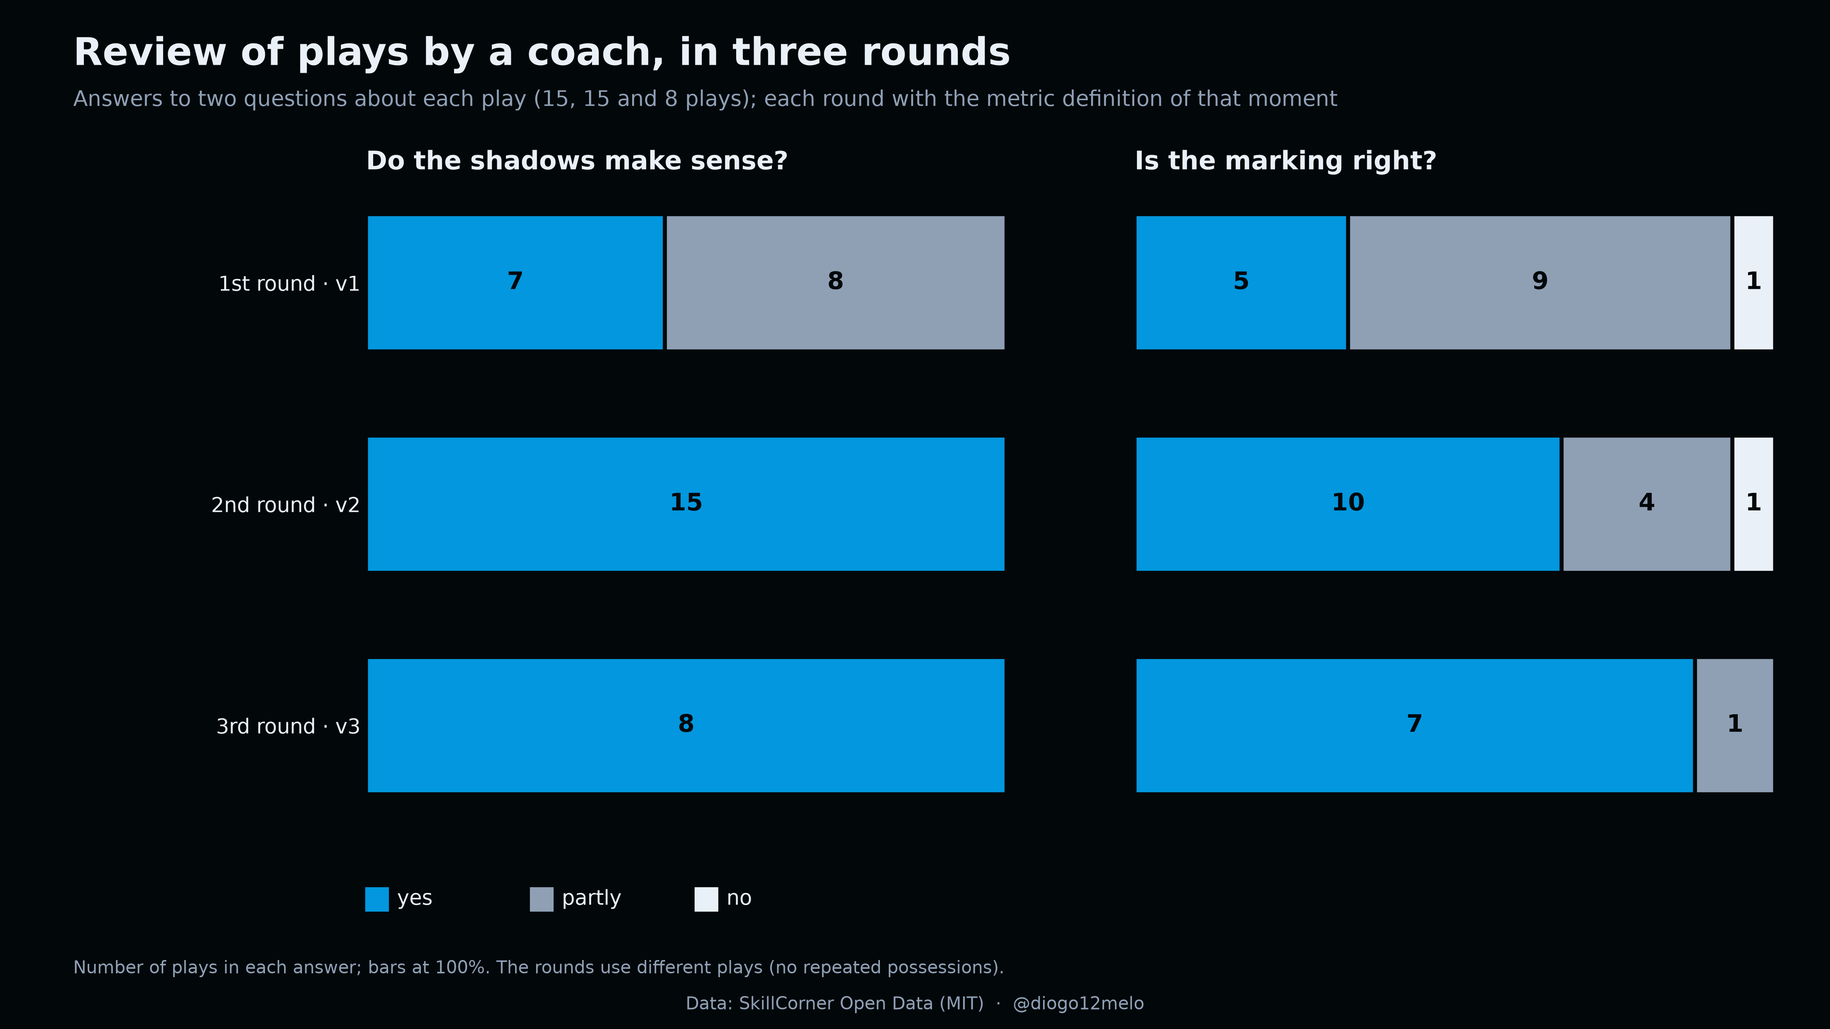
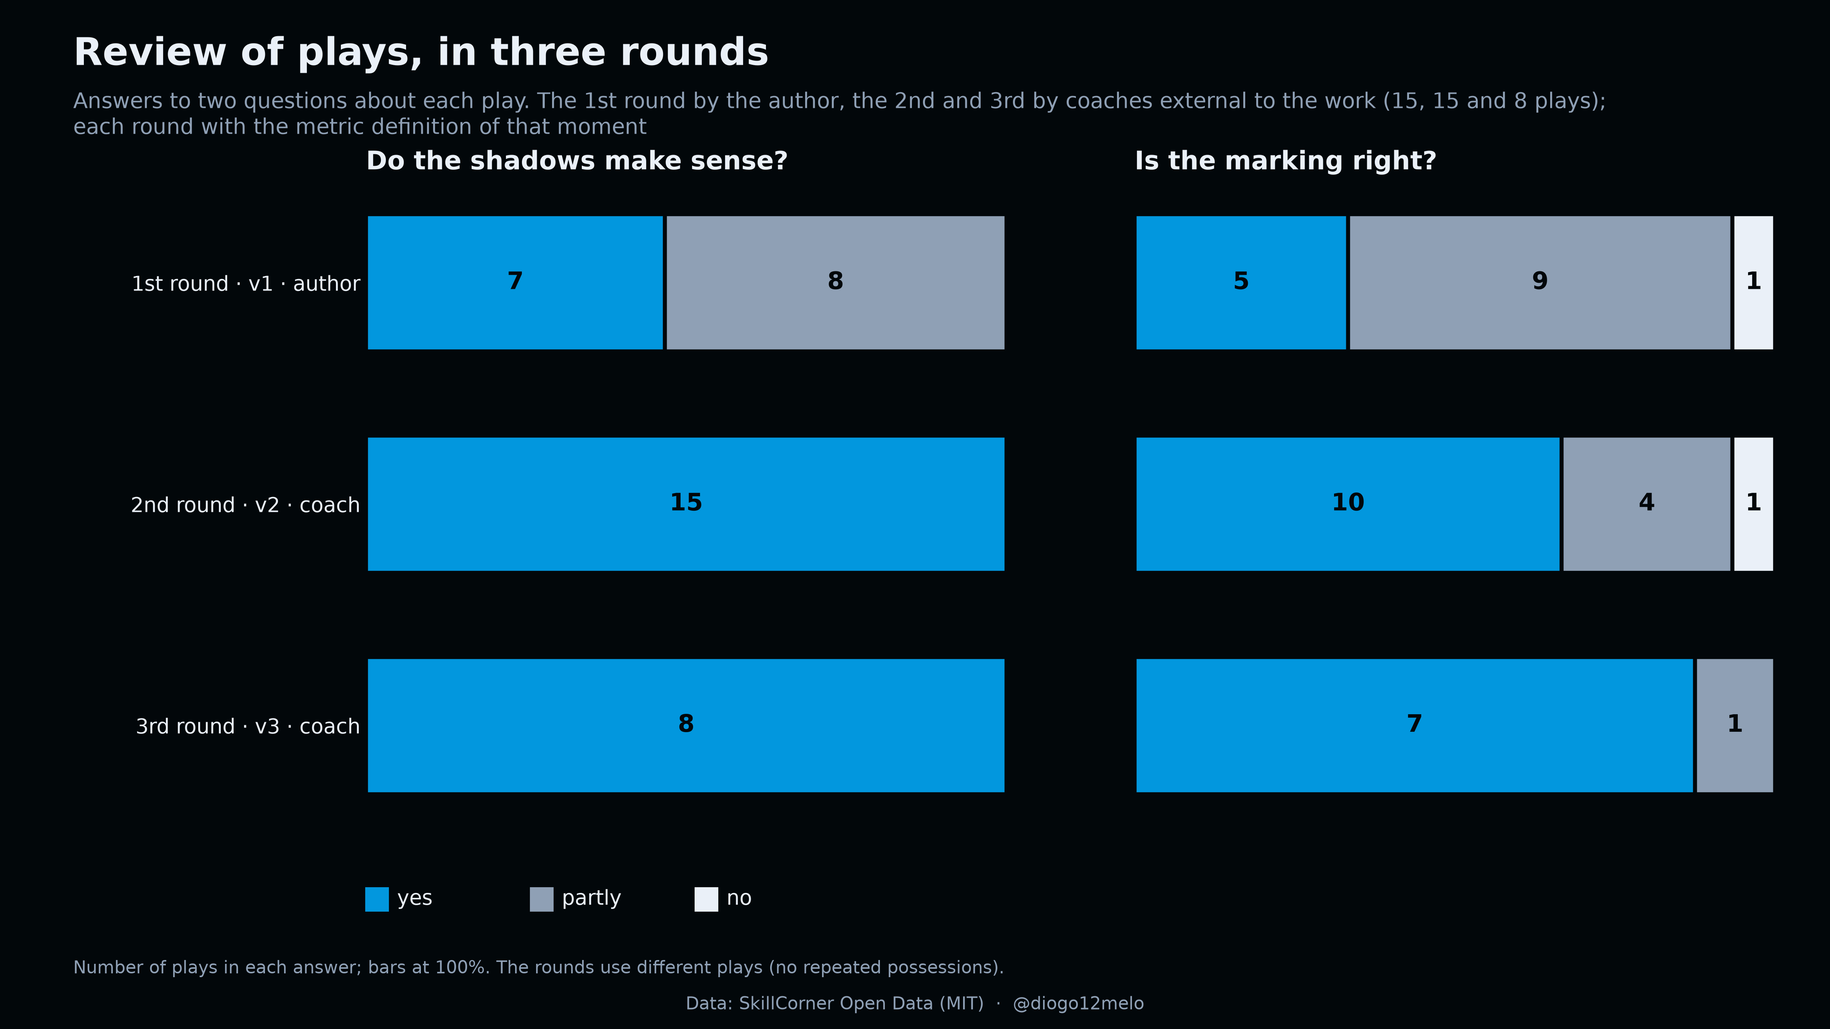
revisão de lances: quem fez cada ronda, Figura 5 reprodutível a partir das contagens

diff --git a/projects/cover_shadow/figuras_agregados.py b/projects/cover_shadow/figuras_agregados.py
@@ -83,12 +83,12 @@ TEXTOS = {
                     "Terço = onde a posse começou (etiqueta SkillCorner).\nÍndice de fecho da linha, não probabilidade calibrada. "
                     "Fora da figura: {sem_fase} momentos sem fase atribuída."),
         # revisões
-        "rv_titulo": "Revisão de lances por um treinador, em três rondas",
-        "rv_sub": ("Respostas a duas perguntas sobre cada lance (15, 15 e 8 lances); cada ronda com a definição "
-                   "da métrica desse momento"),
+        "rv_titulo": "Revisão de lances, em três rondas",
+        "rv_sub": ("Respostas a duas perguntas sobre cada lance. A 1.ª ronda pelo autor, a 2.ª e a 3.ª por treinadores externos ao trabalho "
+                   "(15, 15 e 8 lances);\ncada ronda com a definição da métrica desse momento"),
         "rv_sombras": "As sombras fazem sentido?",
         "rv_marcacao": "A marcação está certa?",
-        "rv_rondas": ("1.ª ronda · v1", "2.ª ronda · v2", "3.ª ronda · v3"),
+        "rv_rondas": ("1.ª ronda · v1 · autor", "2.ª ronda · v2 · treinador", "3.ª ronda · v3 · treinador"),
         "rv_respostas": ("sim", "em parte", "não"),
         "rv_nota": "Número de lances em cada resposta; barras a 100 %. As rondas usam lances diferentes (sem repetir posses).",
         # C3
@@ -151,12 +151,12 @@ TEXTOS = {
         "ft_nota": ("A moment = a frame with at least one evaluated lane. Faded bar: fewer than {minimo} moments. "
                     "Third = where the possession started (SkillCorner label).\nLane-closure index, not a calibrated probability. "
                     "Outside the figure: {sem_fase} moments with no phase assigned."),
-        "rv_titulo": "Review of plays by a coach, in three rounds",
-        "rv_sub": ("Answers to two questions about each play (15, 15 and 8 plays); each round with the metric definition "
-                   "of that moment"),
+        "rv_titulo": "Review of plays, in three rounds",
+        "rv_sub": ("Answers to two questions about each play. The 1st round by the author, the 2nd and 3rd by coaches external to the work "
+                   "(15, 15 and 8 plays);\neach round with the metric definition of that moment"),
         "rv_sombras": "Do the shadows make sense?",
         "rv_marcacao": "Is the marking right?",
-        "rv_rondas": ("1st round · v1", "2nd round · v2", "3rd round · v3"),
+        "rv_rondas": ("1st round · v1 · author", "2nd round · v2 · coach", "3rd round · v3 · coach"),
         "rv_respostas": ("yes", "partly", "no"),
         "rv_nota": "Number of plays in each answer; bars at 100%. The rounds use different plays (no repeated possessions).",
         "c3_titulo": "Shadow on the lane followed vs the alternatives",
@@ -365,15 +365,69 @@ def figura_fase_e_terco(JG: dict, brand: Brand, destino: Path, idioma: str = "pt
 
 RONDAS = [("1.ª ronda · v1", "revisao_lances_preenchida.xlsx"), ("2.ª ronda · v2", "revisao_lances_preenchidas_v2.xlsx"),
           ("3.ª ronda · v3", "revisao_lances_preenchida_v3.xlsx")]
+REVISORES = ("autor", "treinador externo", "treinador externo")  # quem fez cada ronda; em nenhuma o revisor sabia o grupo do lance
 RESPOSTAS = ("sim", "em parte", "não")
+PERGUNTAS = ("sombras", "marcacao")
+PASTA_REVISOES = PROJECTS / "cover_shadow"
+CSV_REVISOES = PASTA_REVISOES / "referencias" / "revisao_contagens.csv"
+COLUNAS_CSV = ["ronda", "versao", "revisor", "lances", "pergunta", "sim", "em_parte", "nao"]
 
 
-def figura_revisoes(brand: Brand, destino: Path, idioma: str = "pt") -> dict:
+def contagens_das_folhas(pasta: Path = PASTA_REVISOES) -> dict | None:
+    """{ronda: {pergunta: {sim, em parte, não, n}}} das folhas preenchidas; `None` se alguma faltar (as folhas têm os
+    comentários dos revisores e não são publicadas)."""
+    if not all((pasta / ficheiro).exists() for _, ficheiro in RONDAS):
+        return None
+    saida = {}
+    for nome, ficheiro in RONDAS:
+        folha = ler_folha_xlsx(pasta / ficheiro)
+        saida[nome] = {}
+        for coluna in PERGUNTAS:
+            contagem = {r: int((folha[coluna] == r).sum()) for r in RESPOSTAS}
+            assert sum(contagem.values()) == len(folha), (nome, coluna, contagem)
+            saida[nome][coluna] = {**contagem, "n": len(folha)}
+    return saida
+
+
+def contagens_do_csv(csv: Path = CSV_REVISOES) -> dict | None:
+    """As mesmas contagens, lidas de `referencias/revisao_contagens.csv` (só contagens: sem lances, comentários nem nomes)."""
+    if not csv.exists():
+        return None
+    saida = {}
+    for r in pd.read_csv(csv).itertuples():
+        nome = RONDAS[int(r.ronda) - 1][0]
+        saida.setdefault(nome, {})[r.pergunta] = {"sim": int(r.sim), "em parte": int(r.em_parte), "não": int(r.nao), "n": int(r.lances)}
+    return saida
+
+
+def contagens_revisoes(pasta: Path = PASTA_REVISOES, csv: Path | None = None) -> dict:
+    """Contagens das três rondas: das folhas se existirem, senão do CSV; havendo as duas, têm de coincidir."""
+    das_folhas, do_csv = contagens_das_folhas(pasta), contagens_do_csv(CSV_REVISOES if csv is None else csv)
+    if das_folhas is not None and do_csv is not None:
+        assert das_folhas == do_csv, "revisao_contagens.csv não coincide com as folhas preenchidas"
+    contagens = das_folhas if das_folhas is not None else do_csv
+    if contagens is None:
+        raise FileNotFoundError(f"sem folhas preenchidas em {pasta} nem {CSV_REVISOES}")
+    return contagens
+
+
+def escrever_csv_revisoes(destino: Path = CSV_REVISOES, pasta: Path = PASTA_REVISOES) -> None:
+    """Gera o CSV de contagens a partir das folhas preenchidas (corre-se onde elas existem, i.e. no footy-lab)."""
+    contagens = contagens_das_folhas(pasta)
+    assert contagens is not None, "faltam folhas preenchidas"
+    linhas = [[i, f"v{i}", REVISORES[i - 1], c["n"], pergunta, c["sim"], c["em parte"], c["não"]]
+              for i, (nome, _) in enumerate(RONDAS, start=1) for pergunta, c in contagens[nome].items()]
+    destino.parent.mkdir(parents=True, exist_ok=True)
+    pd.DataFrame(linhas, columns=COLUNAS_CSV).to_csv(destino, index=False, lineterminator="\n")
+
+
+def figura_revisoes(brand: Brand, destino: Path, idioma: str = "pt", contagens: dict | None = None) -> dict:
     cor = brand.colors
     T = lambda chave, **v: texto(idioma, chave, **v)
     cores = {"sim": cor["secondary"], "em parte": cor["text_muted"], "não": cor["text"]}
     tinta = {"sim": cor["background"], "em parte": cor["background"], "não": cor["background"]}
-    folhas = {nome: ler_folha_xlsx(PROJECTS / "cover_shadow" / ficheiro) for nome, ficheiro in RONDAS}
+    contagens = contagens_revisoes() if contagens is None else contagens
+    folhas = {nome: contagens[nome] for nome, _ in RONDAS}
     fig = nova_figura(brand, T("rv_titulo"), T("rv_sub"))
     eixos = [fig.add_axes((0.20, 0.20, 0.35, 0.62)), fig.add_axes((0.62, 0.20, 0.35, 0.62))]
     numeros = {}
@@ -383,9 +437,9 @@ def figura_revisoes(brand: Brand, destino: Path, idioma: str = "pt") -> dict:
         ax.spines["bottom"].set_visible(False)
         ax.set_xticks([])
         for i, (nome, folha) in enumerate(reversed(list(folhas.items()))):
-            n = len(folha)
+            n = folha[coluna]["n"]
             esquerda = 0.0
-            contagem = {r: int((folha[coluna] == r).sum()) for r in RESPOSTAS}
+            contagem = {r: folha[coluna][r] for r in RESPOSTAS}
             assert sum(contagem.values()) == n, (nome, coluna, contagem)
             numeros.setdefault(nome, {})[coluna] = {**contagem, "n": n}
             for r in RESPOSTAS:

diff --git a/projects/cover_shadow/tests/test_revisoes.py b/projects/cover_shadow/tests/test_revisoes.py
@@ -1,0 +1,73 @@
+"""Figura 5 (revisão de lances): contagens por ronda, legenda inglesa e geração só com o CSV de contagens."""
+
+import re
+import shutil
+
+import matplotlib
+
+matplotlib.use("Agg")  # sem janela: o backend por omissão (Tk) falha em terminais sem ecrã
+
+import figuras_agregados as ag
+import legendas_en
+import pytest
+
+from footy.viz.theme import apply_theme, load_brand
+
+# sim / em parte / não por ronda e pergunta
+ESPERADO = {
+    "1.ª ronda · v1": {"sombras": (7, 8, 0), "marcacao": (5, 9, 1)},
+    "2.ª ronda · v2": {"sombras": (15, 0, 0), "marcacao": (10, 4, 1)},
+    "3.ª ronda · v3": {"sombras": (8, 0, 0), "marcacao": (7, 1, 0)},
+}
+
+
+def trio(c: dict) -> tuple:
+    return (c["sim"], c["em parte"], c["não"])
+
+
+def test_csv_tem_so_contagens():
+    cabecalho = ag.CSV_REVISOES.read_text(encoding="utf-8").splitlines()[0]
+    assert cabecalho == "ronda,versao,revisor,lances,pergunta,sim,em_parte,nao"
+
+
+def test_contagens_do_csv():
+    contagens = ag.contagens_do_csv()
+    for ronda, perguntas in ESPERADO.items():
+        for pergunta, valores in perguntas.items():
+            assert trio(contagens[ronda][pergunta]) == valores
+
+
+def test_folhas_e_csv_coincidem():
+    if ag.contagens_das_folhas() is None:
+        pytest.skip("folhas preenchidas não publicadas")
+    assert ag.contagens_das_folhas() == ag.contagens_do_csv()
+
+
+def test_legenda_en_tem_as_contagens_da_ronda_certa():
+    """A legenda EN emparelhava as rondas pela ordem do dicionário (3.ª, 2.ª, 1.ª): as contagens ficavam com a ronda trocada."""
+    numeros = {}  # a ordem de inserção das figuras: da 3.ª à 1.ª
+    for nome in reversed(list(ESPERADO)):
+        numeros[nome] = ag.contagens_do_csv()[nome]
+    texto = legendas_en.linhas_revisoes(numeros)
+    for (nome, _), rotulo_en in zip(ag.RONDAS, ag.TEXTOS["en"]["rv_rondas"]):
+        trecho = next(t for t in texto.split("; ") if t.startswith(rotulo_en + ":"))
+        s, m = re.findall(r"(\d+)/(\d+)/(\d+)", trecho)
+        assert tuple(map(int, s)) == ESPERADO[nome]["sombras"]
+        assert tuple(map(int, m)) == ESPERADO[nome]["marcacao"]
+
+
+@pytest.mark.parametrize("idioma", ["pt", "en"])
+def test_figura_gera_se_so_com_o_csv(tmp_path, idioma):
+    sem_folhas = tmp_path / "sem_folhas"
+    sem_folhas.mkdir()
+    csv = tmp_path / "revisao_contagens.csv"
+    shutil.copy(ag.CSV_REVISOES, csv)
+    assert ag.contagens_das_folhas(sem_folhas) is None
+    contagens = ag.contagens_revisoes(pasta=sem_folhas, csv=csv)
+    brand = load_brand(variante="clara")
+    apply_theme(brand)
+    numeros = ag.figura_revisoes(brand, tmp_path / "f.png", idioma=idioma, contagens=contagens)
+    assert (tmp_path / "f.png").stat().st_size > 0
+    for ronda, perguntas in ESPERADO.items():
+        for pergunta, valores in perguntas.items():
+            assert trio(numeros[ronda][pergunta]) == valores

diff --git a/projects/cover_shadow/legendas_en.py b/projects/cover_shadow/legendas_en.py
@@ -17,6 +17,14 @@ CTX = idi.ROTULOS_CONTEXTO["en"]
 NOTA = fl.TEXTOS["en"]["nota_soma"]
 
 
+def linhas_revisoes(r: dict) -> str:
+    """Contagens sim/em parte/não por ronda. As chaves de `r` são os nomes PT das rondas (por ordem de inserção vêm da 3.ª à 1.ª),
+    por isso o rótulo inglês procura-se pelo nome e não pela posição."""
+    rondas = {nome: en for (nome, _), en in zip(ag.RONDAS, ag.TEXTOS["en"]["rv_rondas"])}
+    return "; ".join(f"{rondas[k]}: shadows {v['sombras']['sim']}/{v['sombras']['em parte']}/{v['sombras']['não']}, marking "
+                     f"{v['marcacao']['sim']}/{v['marcacao']['em parte']}/{v['marcacao']['não']}" for k, v in r.items())
+
+
 def legendas(n: dict) -> str:
     pt, pct, mil = idi.formatadores("en", menos=True)
     U = "risk"
@@ -69,13 +77,9 @@ def legendas(n: dict) -> str:
         L += [f"- {rot}: {txt}."]
     L += ["", f"{mil(ft['sem_fase'])} moments with no phase assigned are left out of the figure but count in the total.", "",
           "Numbers: `avaliacao_v31.pct_por_contexto` on the v3.1 base in risk; `outputs/cover_shadow/artigo_v31.json`, section `risco.fase_e_terco`.", ""]
-    r = n["revisoes"]
-    rondas = dict(zip(r, ag.TEXTOS["en"]["rv_rondas"]))
-    linhas = "; ".join(f"{rondas[k]}: shadows {v['sombras']['sim']}/{v['sombras']['em parte']}/{v['sombras']['não']}, marking "
-                       f"{v['marcacao']['sim']}/{v['marcacao']['em parte']}/{v['marcacao']['não']}" for k, v in r.items())
     L += ["### agregado_revisoes.png (Figure 5)", "",
-          f"Coach's answers (yes / partly / no) in the three review rounds: {linhas}.", "",
-          f"Numbers: filled-in sheets (`revisao_lances_preenchida*.xlsx`); `{NB}`, section 1 (1.1 to 1.4).", ""]
+          f"Answers (yes / partly / no) in the three review rounds: {linhas_revisoes(n['revisoes'])}.", "",
+          f"Numbers: filled-in sheets (`revisao_lances_preenchida*.xlsx`) or `referencias/revisao_contagens.csv`; `{NB}`, section 1 (1.1 to 1.4).", ""]
     v = n["versoes"]
     txt = "; ".join(f"{k.replace('v3_1', 'v3.1').replace('_', ' · ')}: {pct(x['pct_negada'])} denied, {pct(x['pct_excluidas'])} excluded" for k, x in v.items())
     L += ["### agregado_versoes.png (Figure 1)", "",

diff --git a/projects/cover_shadow/figuras_artigo.py b/projects/cover_shadow/figuras_artigo.py
@@ -142,8 +142,8 @@ def legendas(n: dict) -> str:
         linhas = "; ".join(f"{k}: sombras {v['sombras']['sim']}/{v['sombras']['em parte']}/{v['sombras']['não']}, marcação "
                            f"{v['marcacao']['sim']}/{v['marcacao']['em parte']}/{v['marcacao']['não']}" for k, v in r.items())
         L += ["### agregado_revisoes.png", "",
-              f"Respostas do treinador (sim / em parte / não) nas três rondas de revisão: {linhas}.", "",
-              f"Números: folhas preenchidas (`revisao_lances_preenchida*.xlsx`); `{NB}`, secção 1 (1.1 a 1.4).", ""]
+              f"Respostas (sim / em parte / não) nas três rondas de revisão: {linhas}.", "",
+              f"Números: folhas preenchidas (`revisao_lances_preenchida*.xlsx`) ou `referencias/revisao_contagens.csv`; `{NB}`, secção 1 (1.1 a 1.4).", ""]
     if "versoes" in n:
         v = n["versoes"]
         txt = "; ".join(f"{k.replace('v3_1', 'v3.1').replace('_', ' · ')}: {pt(x['pct_negada'])} % negada, {pt(x['pct_excluidas'])} % excluídas" for k, x in v.items())

diff --git a/projects/cover_shadow/avaliacao.py b/projects/cover_shadow/avaliacao.py
@@ -22,7 +22,7 @@ from scipy.stats import spearmanr
 
 from footy.paths import DATA_PROCESSED
 
-PASTA_AVALIACAO = DATA_PROCESSED / "cover_shadow" / "avaliacao"  # v1: antes da revisão do treinador (D24)
+PASTA_AVALIACAO = DATA_PROCESSED / "cover_shadow" / "avaliacao"  # v1: antes da 1.ª ronda de revisão (D24)
 PASTA_AVALIACAO_V2 = DATA_PROCESSED / "cover_shadow" / "avaliacao_v2"  # v2: com as decisões D25 a D30
 PASTA_AVALIACAO_V3 = DATA_PROCESSED / "cover_shadow" / "avaliacao_v3"  # v3: com D33 e D34
 PASTA_AVALIACAO_V31 = DATA_PROCESSED / "cover_shadow" / "avaliacao_v3_1"  # v3.1: v3 + linhas de até 35 m (D43)

diff --git a/projects/cover_shadow/revisao_v4.py b/projects/cover_shadow/revisao_v4.py
@@ -1,4 +1,4 @@
-"""Fase 8d · figuras, clips e folha da 4.ª ronda de revisão pelo treinador (C1 e C2), com a métrica v4.
+"""Fase 8d · figuras, clips e folha da 4.ª ronda de revisão (C1 e C2), com a métrica v4.
 
 Lances: os 8 da 3.ª ronda (W01–W08, para comparar) e os 3 momentos com a dissuasão (D) mais negativa (D01–D03), para ver se a
 sombra empurrou o portador para uma opção mais perigosa. Cada lance tem uma figura com o valor de cada defesa na v4 (interceção

diff --git a/projects/cover_shadow/revisao.py b/projects/cover_shadow/revisao.py
@@ -1,4 +1,4 @@
-"""Fase 5 · figuras, clips e folha de revisão para a revisão por um treinador (C1 e C2).
+"""Fase 5 · figuras, clips e folha de revisão para a revisão de lances (C1 e C2).
 
 Para cada lance escolhido gera uma figura completa (linhas de passe, quem marca, cones,
 probabilidades e ameaça negada por defesa) e um clip de ~3 s centrado no momento. A folha

diff --git a/projects/cover_shadow/DECISOES.md b/projects/cover_shadow/DECISOES.md
@@ -163,8 +163,8 @@ trazia (posição + velocidade × 0,7 s) e só depois corre em linha reta a 5 m/
   `maxspeed = 12`), velocidades acima de 12 m/s são tratadas como erro do tracking.
 - *Porquê:* com 0,7 s de reação, tratar o defesa como parado atrasava quem já corria para a linha.
 
-### D24 · Revisão por treinador, primeira ronda (28/10)
-15 lances revistos pelo Diogo (C1, C2): sombras 7 sim / 8 em parte / 0 não; marcação 5 sim /
+### D24 · Revisão de lances, primeira ronda, pelo autor (28/10)
+15 lances revistos pelo autor (C1, C2): sombras 7 sim / 8 em parte / 0 não; marcação 5 sim /
 9 em parte / 1 não. Os 5 lances com mais ameaça negada eram quase todos cruzamentos, onde a métrica
 faz menos sentido. As decisões D25–D30 resultam desta revisão (iteração CRISP-DM: volta à modelação).
 
@@ -324,7 +324,7 @@ da linha. Na v3 isto não importava (só contavam as linhas tapadas), mas a v4 a
 - **Tabelas:** a v4 anterior (D38) mantém-se em `data/processed/cover_shadow/v4_sem_fundo/` (e `avaliacao_v4/`, `outputs/cover_shadow/avaliacao_v4_sem_fundo.json`, `revisao_v4_sem_fundo/`,
   `revisao_lances_v4_sem_fundo.xlsx`); a v4 com fundo está em `v4/`, as variantes essenciais em `avaliacao_v4_fundo/` e a variante sem o guarda-redes em `v4_sem_guarda_redes/`.
   As tabelas de linhas têm a coluna nova `p_fundo` (= `p_l(∅)`). Com F vazio (ou `p_fundo = 1`) a v4 com fundo é igual à anterior (teste e verificação nos dados dos dois jogos: diferença 0).
-- **4.ª ronda do treinador** refeita com o fundo (ainda não tinha sido feita): D01–D03 voltam a escolher-se com o fundo, W01–W08 mantêm-se; legenda para treinadores nas imagens e no topo da folha.
+- **4.ª ronda de revisão** refeita com o fundo (ainda não tinha sido feita): D01–D03 voltam a escolher-se com o fundo, W01–W08 mantêm-se; legenda para treinadores nas imagens e no topo da folha.
 - Números (só tabelas, sem leitura) em `08_metrica_v4.ipynb` (secção 8) e `09_avaliacao_v4.ipynb` (secções 1 e 8). O artigo, as figuras do artigo e as animações não se tocaram.
 - *Estado:* implementado; a decisão de adotar o fundo como definição da v4 é do Diogo.
 
@@ -462,6 +462,12 @@ Decisão do Diogo: nova base de cores, mantendo a ideia azul + coral da marca. S
 - **Duas variantes** (`load_brand(variante="escura"|"clara")`, escura por omissão): *escura* para redes sociais e vídeo; *clara* para o artigo (fundo branco, campo `#F5F6F8`). Na clara, áreas, barras e pontos usam o azul e o coral; texto e linhas finas usam as «tintas» `secondary_ink #0277B6` e `primary_ink #D9532E` (≥ 4:1 sobre branco). Texto principal `#02070A`. Os defesas são brancos na escura e quase pretos na clara; as legendas geram-se da variante (`idioma.cor_defesa`).
 - **Cor da marcação: hipótese (b), anel e linha tracejados no tom do texto** (`save` = `#EAF0F8` na escura, `#02070A` na clara). O vermelho-rosa anterior (`#FF4D6D`) ficava a ΔE ≈ 31 do coral novo (≈ 21 em deuteranopia). ΔE (CIELAB, CIE76; matrizes de Machado 2009, severidade 1) mínimo face ao coral e ao azul: (b) escura 54 normal / 58 deuteranopia / 49 protanopia / 45 tritanopia; (b) clara 61 / 61 / 59 / 57. (a) amarelo falha: `#FFD23F` na escura fica a 29 (deuteranopia) e 31 (tritanopia, face ao branco) do coral/branco; o mostarda `#B8860B` na clara fica a 10 em deuteranopia (24 em protanopia). Ressalva: no tracejado o tom é o dos defesas (ΔE 0), por isso o que o separa deles é a forma (anel maior, vazado, tracejado), não a cor.
 - **Figura 14:** «Log-loss, n = 1 408» (vírgula recuperada) e nota «Sombra = 1 − índice de chegada» / «Shadow = 1 − arrival index».
+
+### D48 · Quem fez cada ronda de revisão (9/11)
+- A 1.ª ronda de revisão de lances (D24) foi feita pelo próprio autor, para afinar a definição; a 2.ª e a 3.ª foram feitas por treinadores externos ao trabalho. Em nenhuma ronda o revisor sabia a que grupo pertencia cada lance. Não se afirma se a 2.ª e a 3.ª foram ou não o mesmo treinador.
+- O artigo (PT e EN), a Figura 5 (título, subtítulo e rótulos das rondas: «autor» / «treinador») e o README foram alinhados com isto; deixou de se falar em «revisão por um treinador».
+- Publica-se `referencias/revisao_contagens.csv` (ronda, versão, revisor, lances, pergunta, sim, em parte, não: só contagens, sem ids de lance, comentários nem nomes). A Figura 5 gera-se das folhas preenchidas se existirem e, se não, deste CSV (com as duas, verifica-se que coincidem); as folhas com os comentários dos revisores não são publicadas.
+- Corrigida a legenda inglesa da Figura 5, que tinha as contagens trocadas entre rondas (a figura estava certa); há agora um teste.
 
 ---
 

diff --git a/README.md b/README.md
@@ -1,6 +1,6 @@
 # Cover Shadow Value
 
-A defender who is not touching the ball can still take passes away. Cover Shadow Value (CSV) measures it: the
+A defender who is not touching the ball can still take passes away. Cover Shadow Value measures it: the
 cone behind a defender's trunk (taken from body pose, not from the ball) closes the passing lanes that cross it,
 and closing a lane has value even without a tackle or an interception. This repository computes the metric on
 the SkillCorner open data (A-League 2024/25: tracking, events and body pose) and reproduces the numbers and
@@ -104,8 +104,9 @@ Figure numbers are those of the article: 1 `agregado_versoes`, 2 `c06_passo4_con
 6 `agregado_fase_e_terco`, 7 `agregado_c3_sombra_escolhida`, 8 `agregado_c5_tronco_vs_bola`,
 9 `c06_corpo_vs_bola`, 10 `agregado_c4_estabilidade`, 11 `novo_c8_escolha_do_passe`, 12 `novo_moedas_por_fase`,
 13 `novo_pressao_alta_goodwin`, 14 `novo_xpass_calibracao_e_gamma`, 15 `c03_lance`,
-16 `orientacao_bola_vs_frente`. Figure 5 summarises the answers of a coach who reviewed plays; those answer sheets
-are not published, so that figure is provided as an image only.
+16 `orientacao_bola_vs_frente`. Figure 5 summarises the three rounds of play review, the first by the author and
+the following two by coaches external to the work; it is generated from `projects/cover_shadow/referencias/revisao_contagens.csv`
+(the sheets with the reviewers' comments are not published).
 
 ## Structure
 
